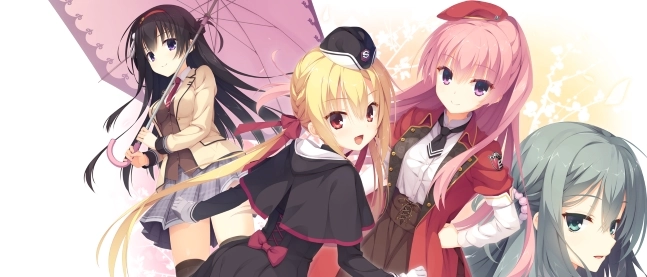
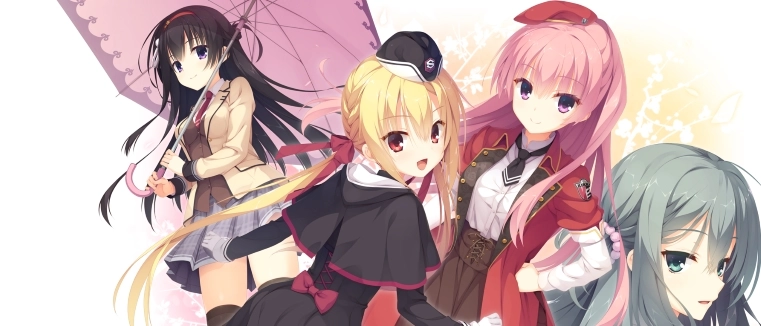
リドルジョーカーのレビュー記事のカバー画像を変更

diff --git a/source/_posts/2023_11_08_riddle-joker-review.md b/source/_posts/2023_11_08_riddle-joker-review.md
@@ -14,7 +14,12 @@ has_code: false
 has_icon: false
 og_image: /articles/riddle-joker-review/riddle_joker_title.webp
 thumbnail: /articles/riddle-joker-review/riddle_joker_thumbnail.webp
-cover: /articles/riddle-joker-review/riddle_joker_cover.webp
+cover:
+  image: /articles/riddle-joker-review/riddle_joker_cover.webp
+  sources:
+    small: /articles/riddle-joker-review/riddle_joker_cover_small.webp
+    medium: /articles/riddle-joker-review/riddle_joker_cover_medium.webp
+    large: /articles/riddle-joker-review/riddle_joker_cover_large.webp
 ---
 
 みなさん、ちゃろー☆
